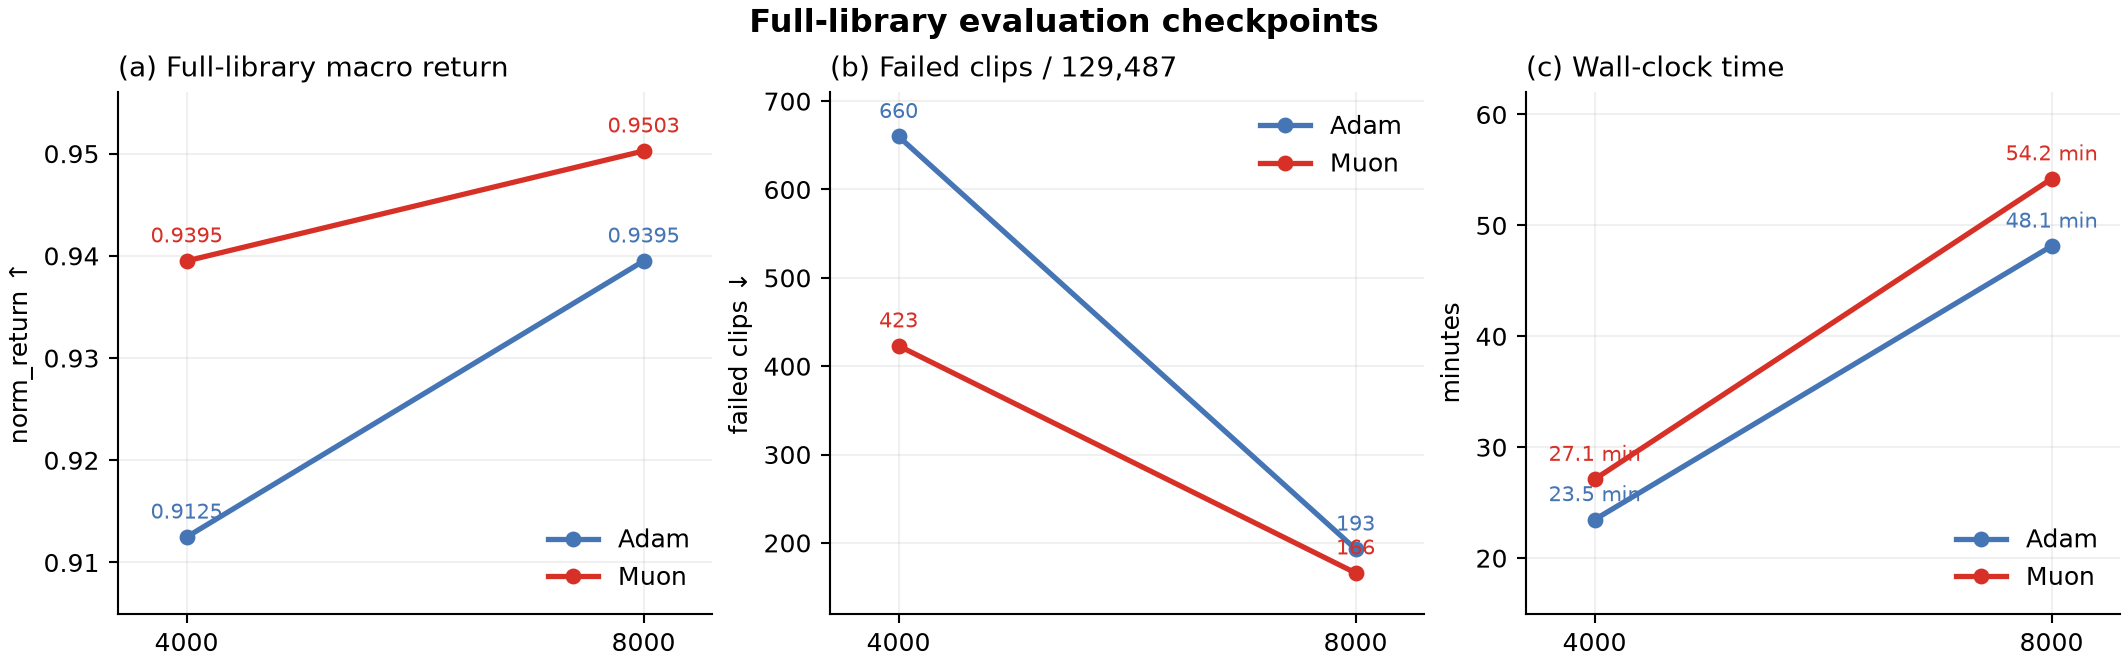
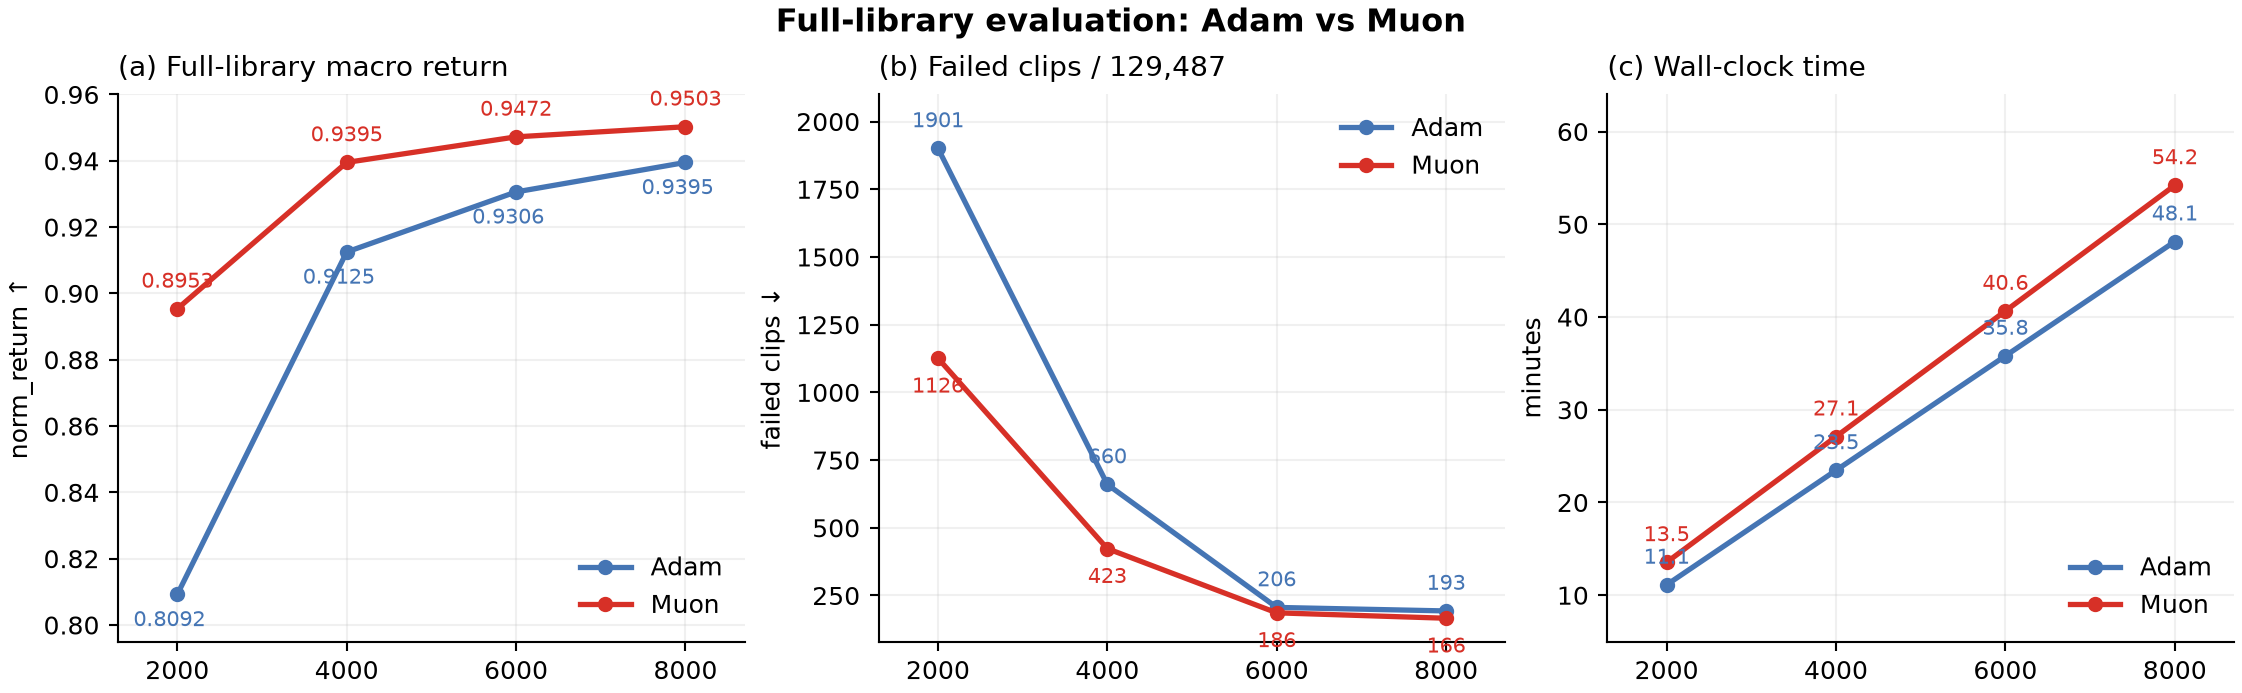
docs: complete Muon full-library evaluation sweep

diff --git a/README.md b/README.md
@@ -298,16 +298,20 @@ The optional Muon optimizers update only the hidden `Linear` weight matrices of 
 
 | checkpoint | iterations | norm_return | frame-weighted | failed clips | Adam baseline at the same iteration |
 |---|---:|---:|---:|---:|---|
+| ckpt_002000.pt | 2000 | 0.895346 | 0.899637 | 1126 / 129,487 (0.87%) | 0.8092, 1901 failed |
 | [ckpt_004000.pt](https://github.com/Motphys/Uni-SuperMimic/releases/download/checkpoints-v1/boneseed_muon_ckpt_004000.pt) | 4000 | 0.939500 | 0.942356 | 423 / 129,487 (0.33%) | 0.912482, 660 failed |
+| ckpt_006000.pt | 6000 | 0.947208 | 0.950058 | 186 / 129,487 (0.14%) | 0.9306, 206 failed |
 | [ckpt_008000.pt](https://github.com/Motphys/Uni-SuperMimic/releases/download/checkpoints-v1/boneseed_muon_ckpt_008000.pt) | 8000 | 0.950259 | 0.953015 | 166 / 129,487 (0.13%) | 0.939490, 193 failed |
 
 Muon reaches the Adam 8000-iteration macro `norm_return` in 4000 iterations: 0.939500 versus 0.939490. The 4000-iteration learner wall time is 27.1 minutes versus 48.1 minutes for Adam at 8000 iterations. This is an iteration-efficiency result rather than a strict success-rate match: Muon at 4000 iterations has 423 failed clips versus 193 for Adam at 8000, and its frame-weighted return is lower by 0.0010. At the full 8000 iterations, Muon improves macro return by 0.0108, reduces failed clips from 193 to 166, and lowers the world-model 8-step error from 0.08759 to 0.06252 (-28.6%). Its measured throughput is 2.46 versus 2.70 iterations/second for Adam.
+
+The complete checkpoint sweep strengthens the halfway-return observation: Muon at 6000 iterations exceeds Adam at 8000 iterations on both macro return (0.947208 vs 0.939490) and failed clips (186 vs 193), while using 40.6 versus 48.1 minutes of learner wall time.
 
 These are seed-0 engineering-comparison numbers against the existing Adam run; the optimizer default remains Adam until a same-checkout, multi-seed study is completed.
 
 ![Muon versus Adam: training reward and world-model error by iteration and wall-clock time](docs/assets/muon_vs_adam_training_curves.png)
 
-![Muon versus Adam: full-library evaluation at 4000 and 8000 iterations](docs/assets/muon_vs_adam_evaluation.png)
+![Muon versus Adam: full-library evaluation at 2000, 4000, 6000, and 8000 iterations](docs/assets/muon_vs_adam_evaluation.png)
 
 Reproduce the run after building `data/library/bones_seed_compact.pt`:
 

diff --git a/README_zh.md b/README_zh.md
@@ -298,16 +298,20 @@ BONES-SEED 逐段分布：中位数 0.9528，P10 0.8337，P90 0.9841。BONES-SEE
 
 | checkpoint | 迭代轮数 | norm_return | 帧加权 | 失败段 | 同迭代 Adam 基线 |
 |---|---:|---:|---:|---:|---|
+| ckpt_002000.pt | 2000 | 0.895346 | 0.899637 | 1126 / 129,487（0.87%） | 0.8092，1901 段失败 |
 | [ckpt_004000.pt](https://github.com/Motphys/Uni-SuperMimic/releases/download/checkpoints-v1/boneseed_muon_ckpt_004000.pt) | 4000 | 0.939500 | 0.942356 | 423 / 129,487（0.33%） | 0.912482，660 段失败 |
+| ckpt_006000.pt | 6000 | 0.947208 | 0.950058 | 186 / 129,487（0.14%） | 0.9306，206 段失败 |
 | [ckpt_008000.pt](https://github.com/Motphys/Uni-SuperMimic/releases/download/checkpoints-v1/boneseed_muon_ckpt_008000.pt) | 8000 | 0.950259 | 0.953015 | 166 / 129,487（0.13%） | 0.939490，193 段失败 |
 
 Muon 在 4000 轮达到 Adam 8000 轮的宏平均 `norm_return`：0.939500 vs 0.939490；4000 轮 learner 墙钟为 27.1 分钟，而 Adam 8000 轮为 48.1 分钟。这是迭代效率结论，不是严格成功率等价：Muon 4000 轮仍有 423 段失败，多于 Adam 8000 轮的 193 段，帧加权回报也低 0.0010。到完整 8000 轮时，Muon 将宏平均回报提高 0.0108，失败段从 193 降至 166，并将世界模型 8 步误差从 0.08759 降至 0.06252（-28.6%）。实测吞吐为 2.46 it/s，低于 Adam 的 2.70 it/s。
+
+完整 checkpoint 扫描进一步支持“一半迭代达到相近 return”的观察：Muon 6000 轮在宏平均 return（0.947208 vs 0.939490）和失败段数（186 vs 193）上都超过 Adam 8000 轮，learner 墙钟为 40.6 分钟 vs 48.1 分钟。
 
 以上为 seed 0 且对照既有 Adam run 的工程实验结果；在完成同一代码版本的多 seed 验证前，默认优化器仍保持 Adam。
 
 ![Muon 与 Adam：按迭代和墙钟对比训练奖励与世界模型误差](docs/assets/muon_vs_adam_training_curves.png)
 
-![Muon 与 Adam：4000/8000 轮全库评估](docs/assets/muon_vs_adam_evaluation.png)
+![Muon 与 Adam：2000/4000/6000/8000 轮全库评估](docs/assets/muon_vs_adam_evaluation.png)
 
 构建 `data/library/bones_seed_compact.pt` 后，可按以下命令复现：
 
